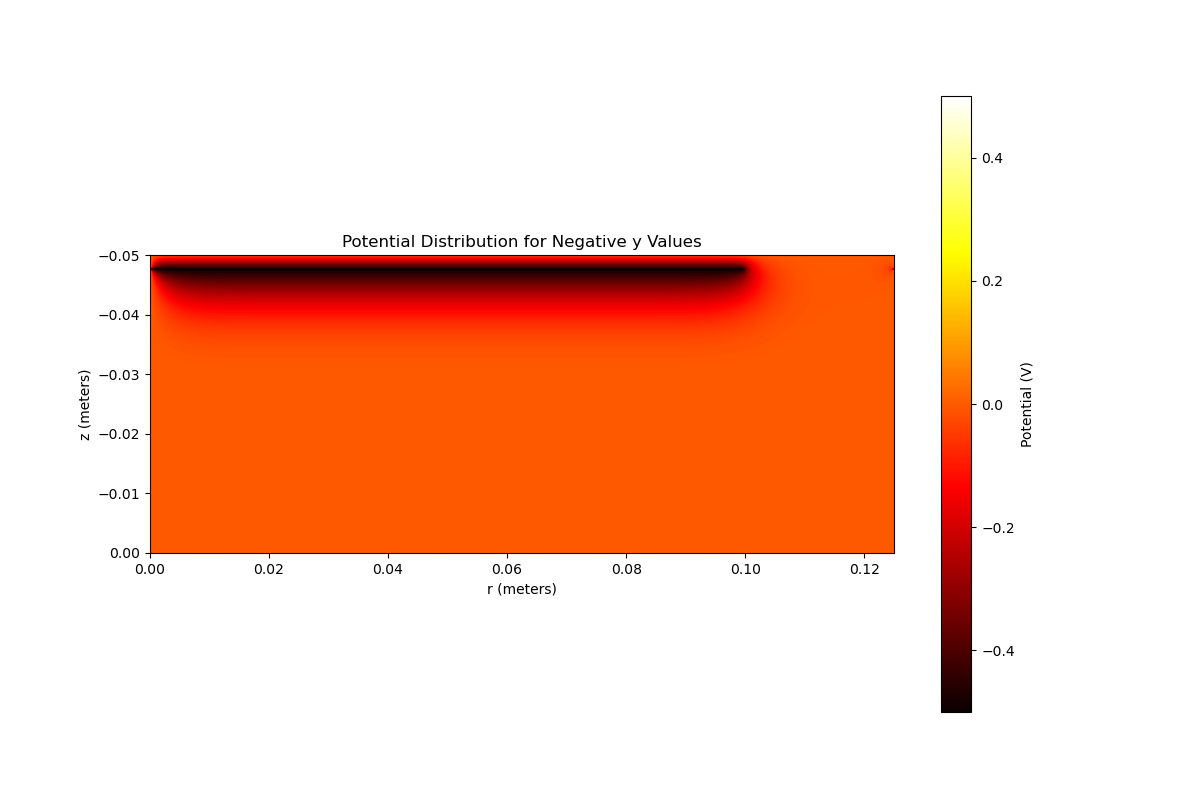
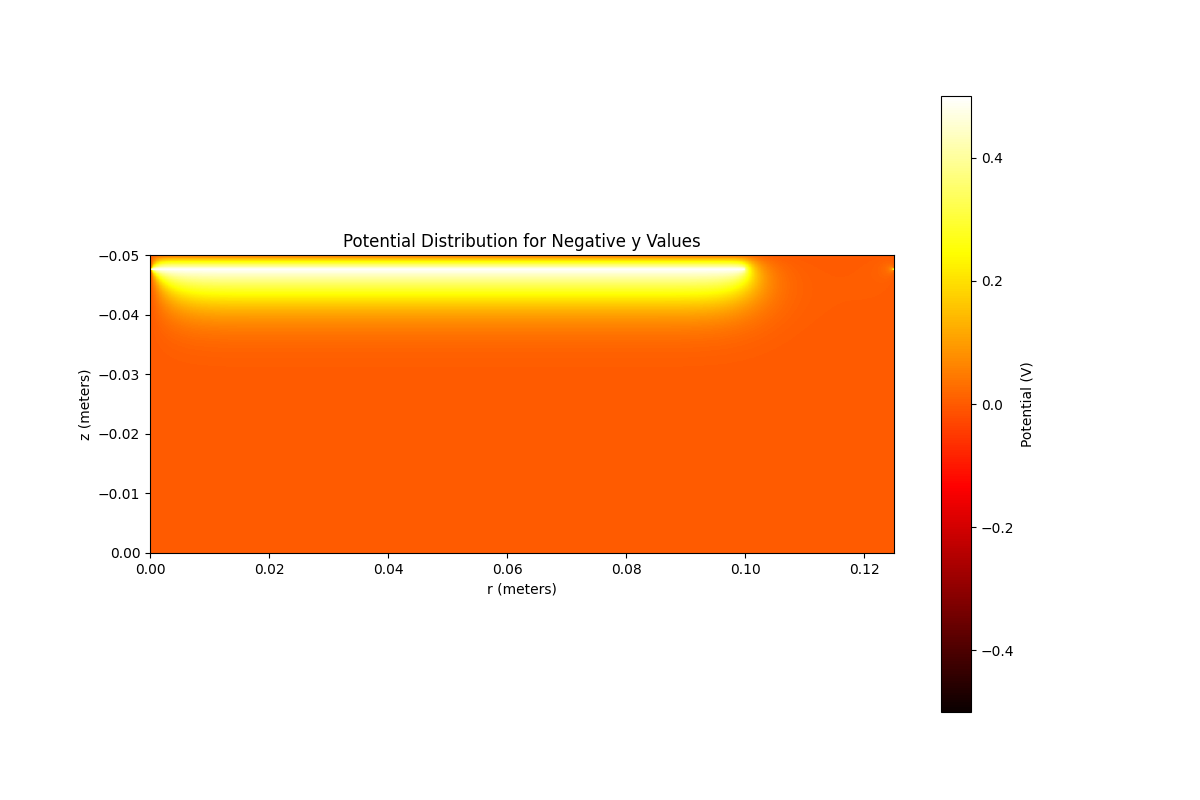
Fixes

diff --git a/relaxsation_method_numeric_execrsise/relaxation_method_chatgpt.py b/relaxsation_method_numeric_execrsise/relaxation_method_chatgpt.py
@@ -10,8 +10,8 @@ GRID_WIDTH = 0.05  # meters
 STEP_SIZE = 0.00025  # meters
 REQUIRED_PRECISION = 0.0001
 MAX_ITERATIONS = 10_000
-TOP_PLATE_POTENTIAL = 0.5
-BOTTOM_PLATE_POTENTIAL = -0.5
+TOP_PLATE_POTENTIAL = -0.5
+BOTTOM_PLATE_POTENTIAL = 0.5
 PLATE_OFFSET = 0.0025  # meters
 X_MAX_OF_DISK = 0.1  # meters
 
@@ -89,6 +89,42 @@ class RelaxationSolver:
         )
 
 
+def save_animation_as_different_file_format(ani):
+    try:
+        ani.save('potential_animation.gif', writer='pillow')
+        print("Animation successfully saved as potential_animation.gif")
+    except Exception as e:
+        print(f"Failed to save GIF animation: {e}")
+
+        # Try saving as MP4 using ffmpeg
+    try:
+        ani.save('potential_animation.mp4', writer='ffmpeg')
+        print("Animation successfully saved as potential_animation.mp4")
+    except Exception as e:
+        print(f"Failed to save MP4 animation: {e}")
+
+        # Try saving as MOV using ffmpeg
+    try:
+        ani.save('potential_animation.mov', writer='ffmpeg')
+        print("Animation successfully saved as potential_animation.mov")
+    except Exception as e:
+        print(f"Failed to save MOV animation: {e}")
+
+        # Try saving as AVI using ffmpeg
+    try:
+        ani.save('potential_animation.avi', writer='ffmpeg')
+        print("Animation successfully saved as potential_animation.avi")
+    except Exception as e:
+        print(f"Failed to save AVI animation: {e}")
+
+        # Try saving as HTML5 video using HTML writer
+    try:
+        ani.save('potential_animation.html', writer='html')
+        print("Animation successfully saved as potential_animation.html")
+    except Exception as e:
+        print(f"Failed to save HTML5 animation: {e}")
+
+
 class PotentialPlotter:
     def __init__(self, potential_grid, grids):
         self.potential_grid = potential_grid
@@ -97,8 +133,8 @@ class PotentialPlotter:
     def plot_potential(self):
         plt.figure(figsize=(12, 8))
         plt.title("Potential Distribution Around the Board Capacitor")
-        plt.xlabel("x (meters)")
-        plt.ylabel("y (meters)")
+        plt.xlabel("r (meters)")
+        plt.ylabel("z (meters)")
         plt.gca().invert_yaxis()
         plt.imshow(
             self.potential_grid.grid.T,
@@ -107,6 +143,7 @@ class PotentialPlotter:
             norm=mcolors.Normalize(vmin=-0.5, vmax=0.5)
         )
         plt.colorbar(label='Potential (V)')
+        plt.savefig("Potential Distribution Around the Board Capacitor.png")
         plt.show()
 
     def plot_positive_y_values(self):
@@ -186,8 +223,7 @@ class PotentialPlotter:
 
         ani = animation.FuncAnimation(fig, update, frames=len(self.grids), blit=True, interval=50)
 
-        # Save as Video
-        ani.save('potential_animation.mp4', writer='ffmpeg')
+        save_animation_as_different_file_format(ani)
 
         plt.show()
 
@@ -206,7 +242,6 @@ def main():
     plotter.plot_negative_y_values()
     plotter.plot_vertical_line_at_x0()  # Added line plot for x = 0
     plotter.animate_potential()
-    print(potential_grid.grid[0::10])
 
 
 if __name__ == "__main__":
